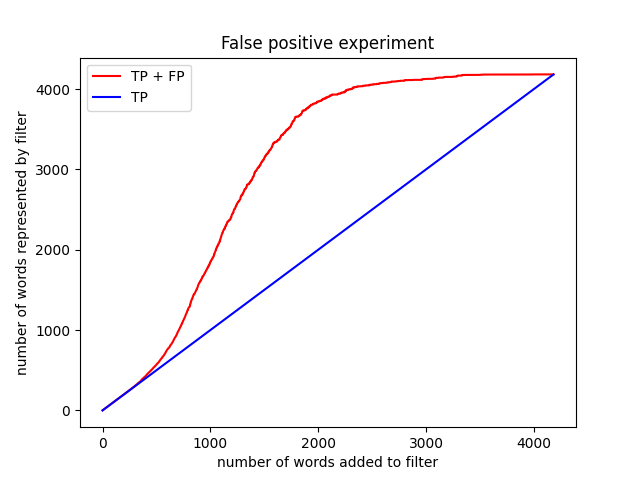
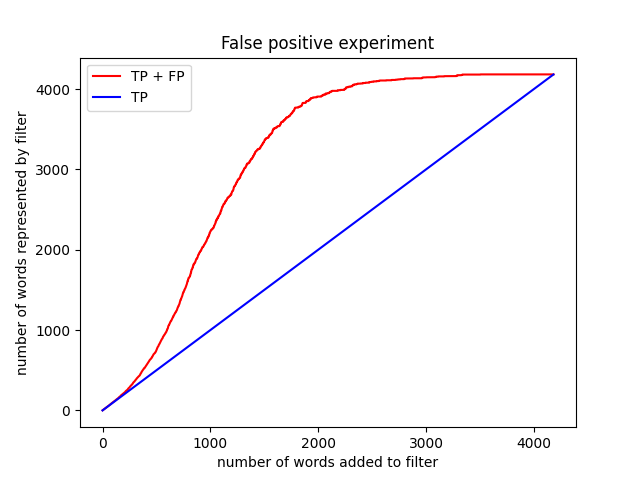
added bitarray

Changed region(s): [[0.2188, 0.1562, 0.7188, 0.7812], [0.1875, 0.7812, 0.2188, 0.8125]]

diff --git a/lab1/bloom.py b/lab1/bloom.py
@@ -1,12 +1,13 @@
 import mmh3
 import numpy as np
+import bitarray
 from plots import bloom_plot
 
 class BloomFilter:
-    array = np.zeros(0, int)
+    array = bitarray.bitarray(0)
 
     def __init__(self, n):
-        self.array = np.zeros(n, int)
+        self.array = bitarray.bitarray(n)
 
     def onAdd(self, x):
         for i in range(1, 9):
